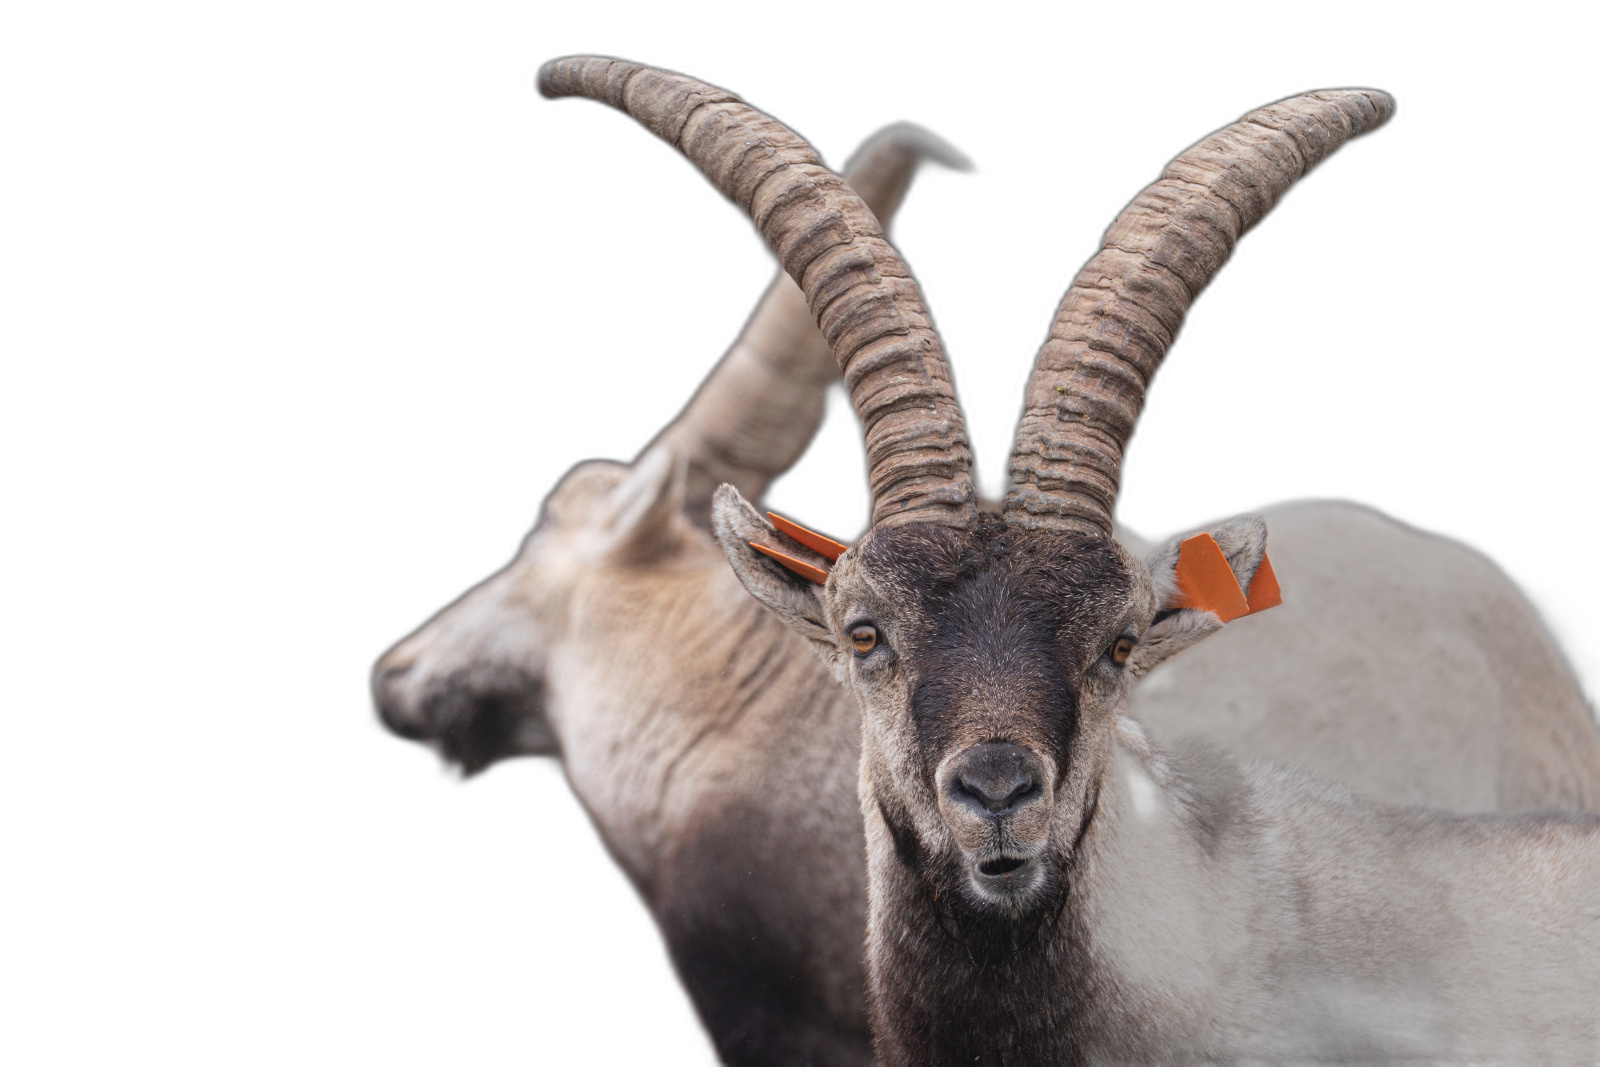
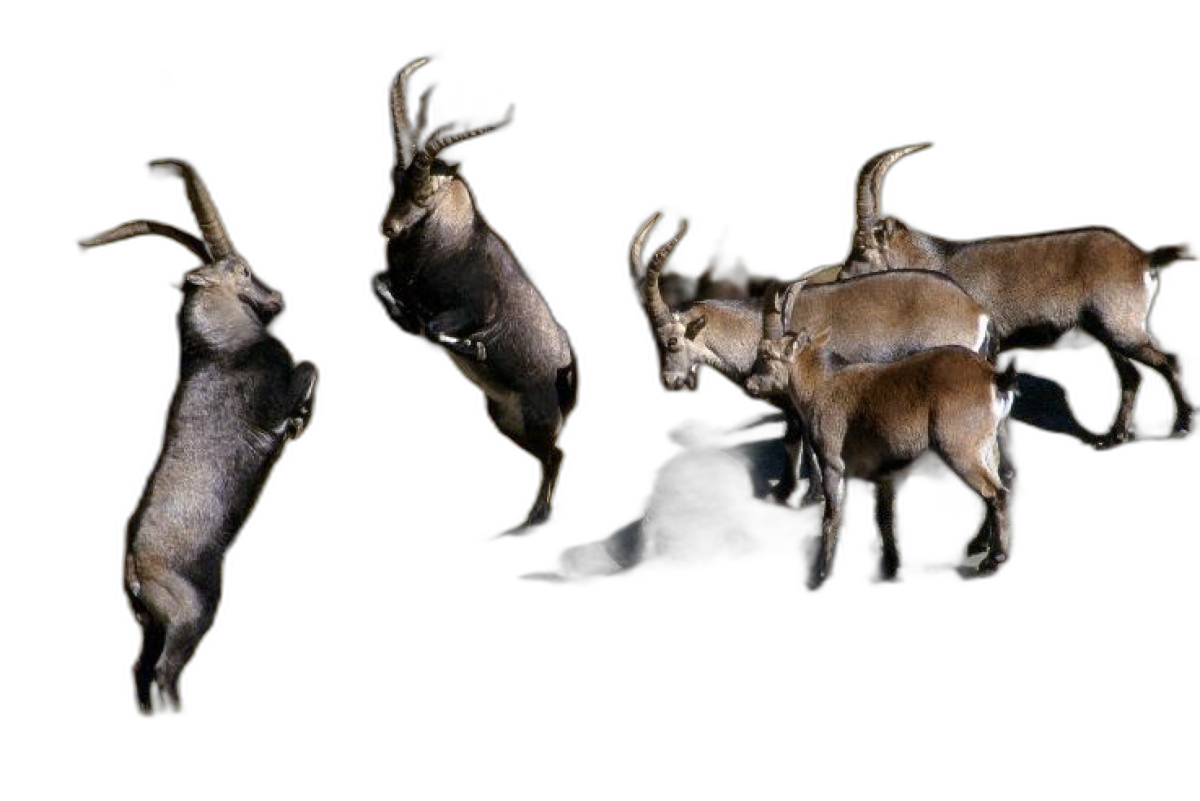
ajout logç

diff --git a/frontend/assets/css/main.css b/frontend/assets/css/main.css
@@ -104,13 +104,21 @@ header {
   height: 64px;
   width: auto;
   margin-left: -20px;
+   margin-right: 16px;
 }
 
 .logo-bqt {
   height: 70px;
   width: auto;
   object-fit: contain;
-  margin-right: 20px;
+  margin-right: 16px;
+}
+
+.logo-rf {
+  height: 70px;
+  width: auto;
+  object-fit: contain;
+  margin-right: 6px;
 }
 
 .header-title {

diff --git a/frontend/index.html b/frontend/index.html
@@ -28,7 +28,9 @@
     <div class="header-top">
       <div class="header-top-left">
         <img src="assets/img/logo-parc.svg" alt="Logo Parc National des Pyrénées" class="logo-parc">
-        <img src="assets/img/bqt_header.png" alt="Bouquetin" class="logo-bqt">
+        <img src="assets/img/Logo_-_République_française.svg" alt="République Française" class="logo-rf">
+       <img src="assets/img/bqt_header.png" alt="Bouquetin" class="logo-bqt">
+
         <h1 class="header-title">Suivi des bouquetins ibériques</h1>
       </div>
       <nav class="header-nav" id="mainNav">